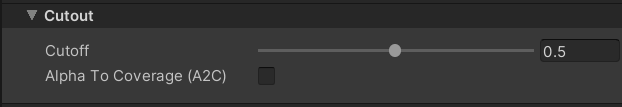
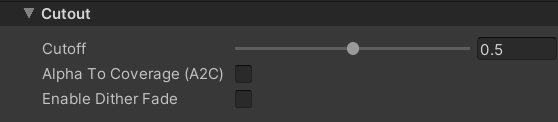
added dissolve fade shader

diff --git a/src/components/ShaderList.tsx b/src/components/ShaderList.tsx
@@ -11,6 +11,7 @@ const SHADERS = [
     { name: 'Color Randomisation', href:'/docs/orl-standard/color-randomisation', type: 'PBR', fullName: 'orels1/Standard Color Randomisation' },
     { name: 'Cutout', href:'/docs/orl-standard/base-shader', type: 'PBR', fullName: 'orels1/Standard Cutout' },
     { name: 'Dissolve', href:'/docs/orl-standard/dissolve', type: 'PBR', fullName: 'orels1/Standard Dissolve' },
+    { name: 'Dither Fade', href:'/docs/orl-standard/dither-fade', type: 'PBR', fullName: 'orels1/Standard Dither Fade' },
     { name: 'Glass', href:'/docs/orl-standard/glass', type: 'PBR', fullName: 'orels1/Standard Glass' },
     { name: 'Layered Material', href:'/docs/orl-standard/layered-material', type: 'PBR', fullName: 'orels1/Standard Layered Material' },
     { name: 'Layered Parallax', href:'/docs/orl-standard/layered-parallax', type: 'PBR', fullName: 'orels1/Standard Layered Parallax' },
@@ -26,6 +27,7 @@ const SHADERS = [
     { name: 'Toon Transparent', href:'/docs/toon/base-shader', type: 'Toon', fullName: 'orels1/Toon/Transparent' },
     { name: 'Toon Cutout', href:'/docs/toon/base-shader', type: 'Toon', fullName: 'orels1/Toon/Cutout' },
     { name: 'Clouds', href:'/docs/vfx/clouds', type: 'VFX', fullName: 'orels1/VFX/Clouds' },
+    { name: 'Dither Fade', href:'/docs/orl-standard/dither-fade', type: 'PBR', fullName: 'orels1/VFX/Dither Fade' },
     { name: 'Ghost Lines', href:'/docs/vfx/ghost-lines', type: 'VFX', fullName: 'orels1/VFX/Ghost Lines' },
     { name: 'Holographic Parallax', href:'/docs/vfx/holographic-parallax', type: 'VFX', fullName: 'orels1/VFX/Holographic Parallax' },
     { name: 'Cubemap Screen', href:'/docs/vfx/cubemap-screen', type: 'VFX', fullName: 'orels1/VFX/Cubemap Screen' },
@@ -50,6 +52,7 @@ const SHADERS = [
     { name: 'Audio Link', href:'/docs/orl-standard/audio-link', type: 'PBR', fullName: 'orels1/Standard AudioLink' },
     { name: 'Color Randomisation', href:'/docs/orl-standard/color-randomisation', type: 'PBR', fullName: 'orels1/Standard Color Randomisation' },
     { name: 'Dissolve', href:'/docs/orl-standard/dissolve', type: 'PBR', fullName: 'orels1/Standard Dissolve' },
+    { name: 'Dither Fade', href:'/docs/orl-standard/dither-fade', type: 'PBR', fullName: 'orels1/Standard Dither Fade' },
     { name: 'Glass', href:'/docs/orl-standard/glass', type: 'PBR', fullName: 'orels1/Standard Glass' },
     { name: 'Layered Material', href:'/docs/orl-standard/layered-material', type: 'PBR', fullName: 'orels1/Standard Layered Material' },
     { name: 'Layered Parallax', href:'/docs/orl-standard/layered-parallax', type: 'PBR', fullName: 'orels1/Standard Layered Parallax' },
@@ -69,6 +72,7 @@ const SHADERS = [
   ] },
   { name: 'VFX', shaders: [
     { name: 'Clouds', href:'/docs/vfx/clouds', type: 'VFX', fullName: 'orels1/VFX/Clouds' },
+    { name: 'Dither Fade', href:'/docs/orl-standard/dither-fade', type: 'PBR', fullName: 'orels1/VFX/Dither Fade' },
     { name: 'Ghost Lines', href:'/docs/vfx/ghost-lines', type: 'VFX', fullName: 'orels1/VFX/Ghost Lines' },
     { name: 'Holographic Parallax', href:'/docs/vfx/holographic-parallax', type: 'VFX', fullName: 'orels1/VFX/Holographic Parallax' },
     { name: 'Cubemap Screen', href:'/docs/vfx/cubemap-screen', type: 'VFX', fullName: 'orels1/VFX/Cubemap Screen' },

diff --git a/src/components/Layout.jsx b/src/components/Layout.jsx
@@ -36,6 +36,7 @@ const navigation = [
       },
       { title: 'Color Randomisation', href: '/docs/orl-standard/color-randomisation' },
       { title: 'Dissolve', href: '/docs/orl-standard/dissolve' },
+      { title: 'Dither Fade', href: '/docs/orl-standard/dither-fade' },
       { title: 'Glass', href: '/docs/orl-standard/glass' },
       { title: 'Layered Material', href: '/docs/orl-standard/layered-material' },
       { title: 'Layered Parallax', href: '/docs/orl-standard/layered-parallax' },

diff --git a/src/pages/docs/orl-standard/dither-fade.md b/src/pages/docs/orl-standard/dither-fade.md
@@ -1,0 +1,25 @@
+---
+title: Dither Fade Shader
+description: Options relevant to the orels1/Standard Dither Fade shader and other Dither Fade variants
+---
+
+Options relevant to the orels1/Standard Dither Fade shader and other Dither Fade variants
+
+---
+
+A distance fade shader that uses a special dither texture for a smooth cutout transition during the fade.
+
+Has both PBR and VFX (Unlit) variants:
+
+- orels1/Standard Dither Fade
+- orels1/VFX/Dither Fade
+
+{% video url="https://iframe.mediadelivery.net/embed/165/3da52777-7b1d-49d4-8293-3e2e7429f415?autoplay=true&loop=true&muted=true" title="Dither Fade Demo" /%}
+
+![Dither Fade Inspector](/img/docs/orl-standard/dither-fade/dither-fade.png "Dither Fade Inspector")
+
+- Dither Texture: The texture used to fade the dissolve effect. Is expected to be a special Bayer/other dither texture. The shader package comes with one included
+- Fade Start: Controls the distance at which the fading will start. Is defined in World Units
+- Fade End: Controls the distance at which the fading will end. Is defined in World Units
+- Override Fade: When enabled - provides manual control over the fade. Useful for animations
+- Fade Progress: Only visible when **Override Fade** is enabled. Controls the fade progress, where 1 is fully faded out

diff --git a/src/pages/docs/orl-standard/base-shader.md b/src/pages/docs/orl-standard/base-shader.md
@@ -159,7 +159,7 @@ Comparing **Baked Specular** OFF vs ON
 ## Internal
 
 {% callout type="warning" title="Debug Information" %}
-You do not have to adjust settings shown in the Internal section, these are provided only for debugging
+You do not have to adjust the settings shown in the Internal section, these are provided only for debugging
 {% /callout %}
 
 - DFG LUT: The DFG-multiscatter LUT texture used for the specular calculations
@@ -170,6 +170,8 @@ You do not have to adjust settings shown in the Internal section, these are prov
 There is also a cutout variant of the Standard shader, which provides all the same features, but with support for regular and Alpha To Coverage cutout
 
 ![Cutout Variant](/img/docs/orl-standard/base-shader/cutout-inspector.png)
+
+- Enable Dither Fade: Enables distance-based dither fade. Check out the [Dither Fade](/docs/orl-standard/dither-fade) documentation for more information
 
 ## Examples
 
